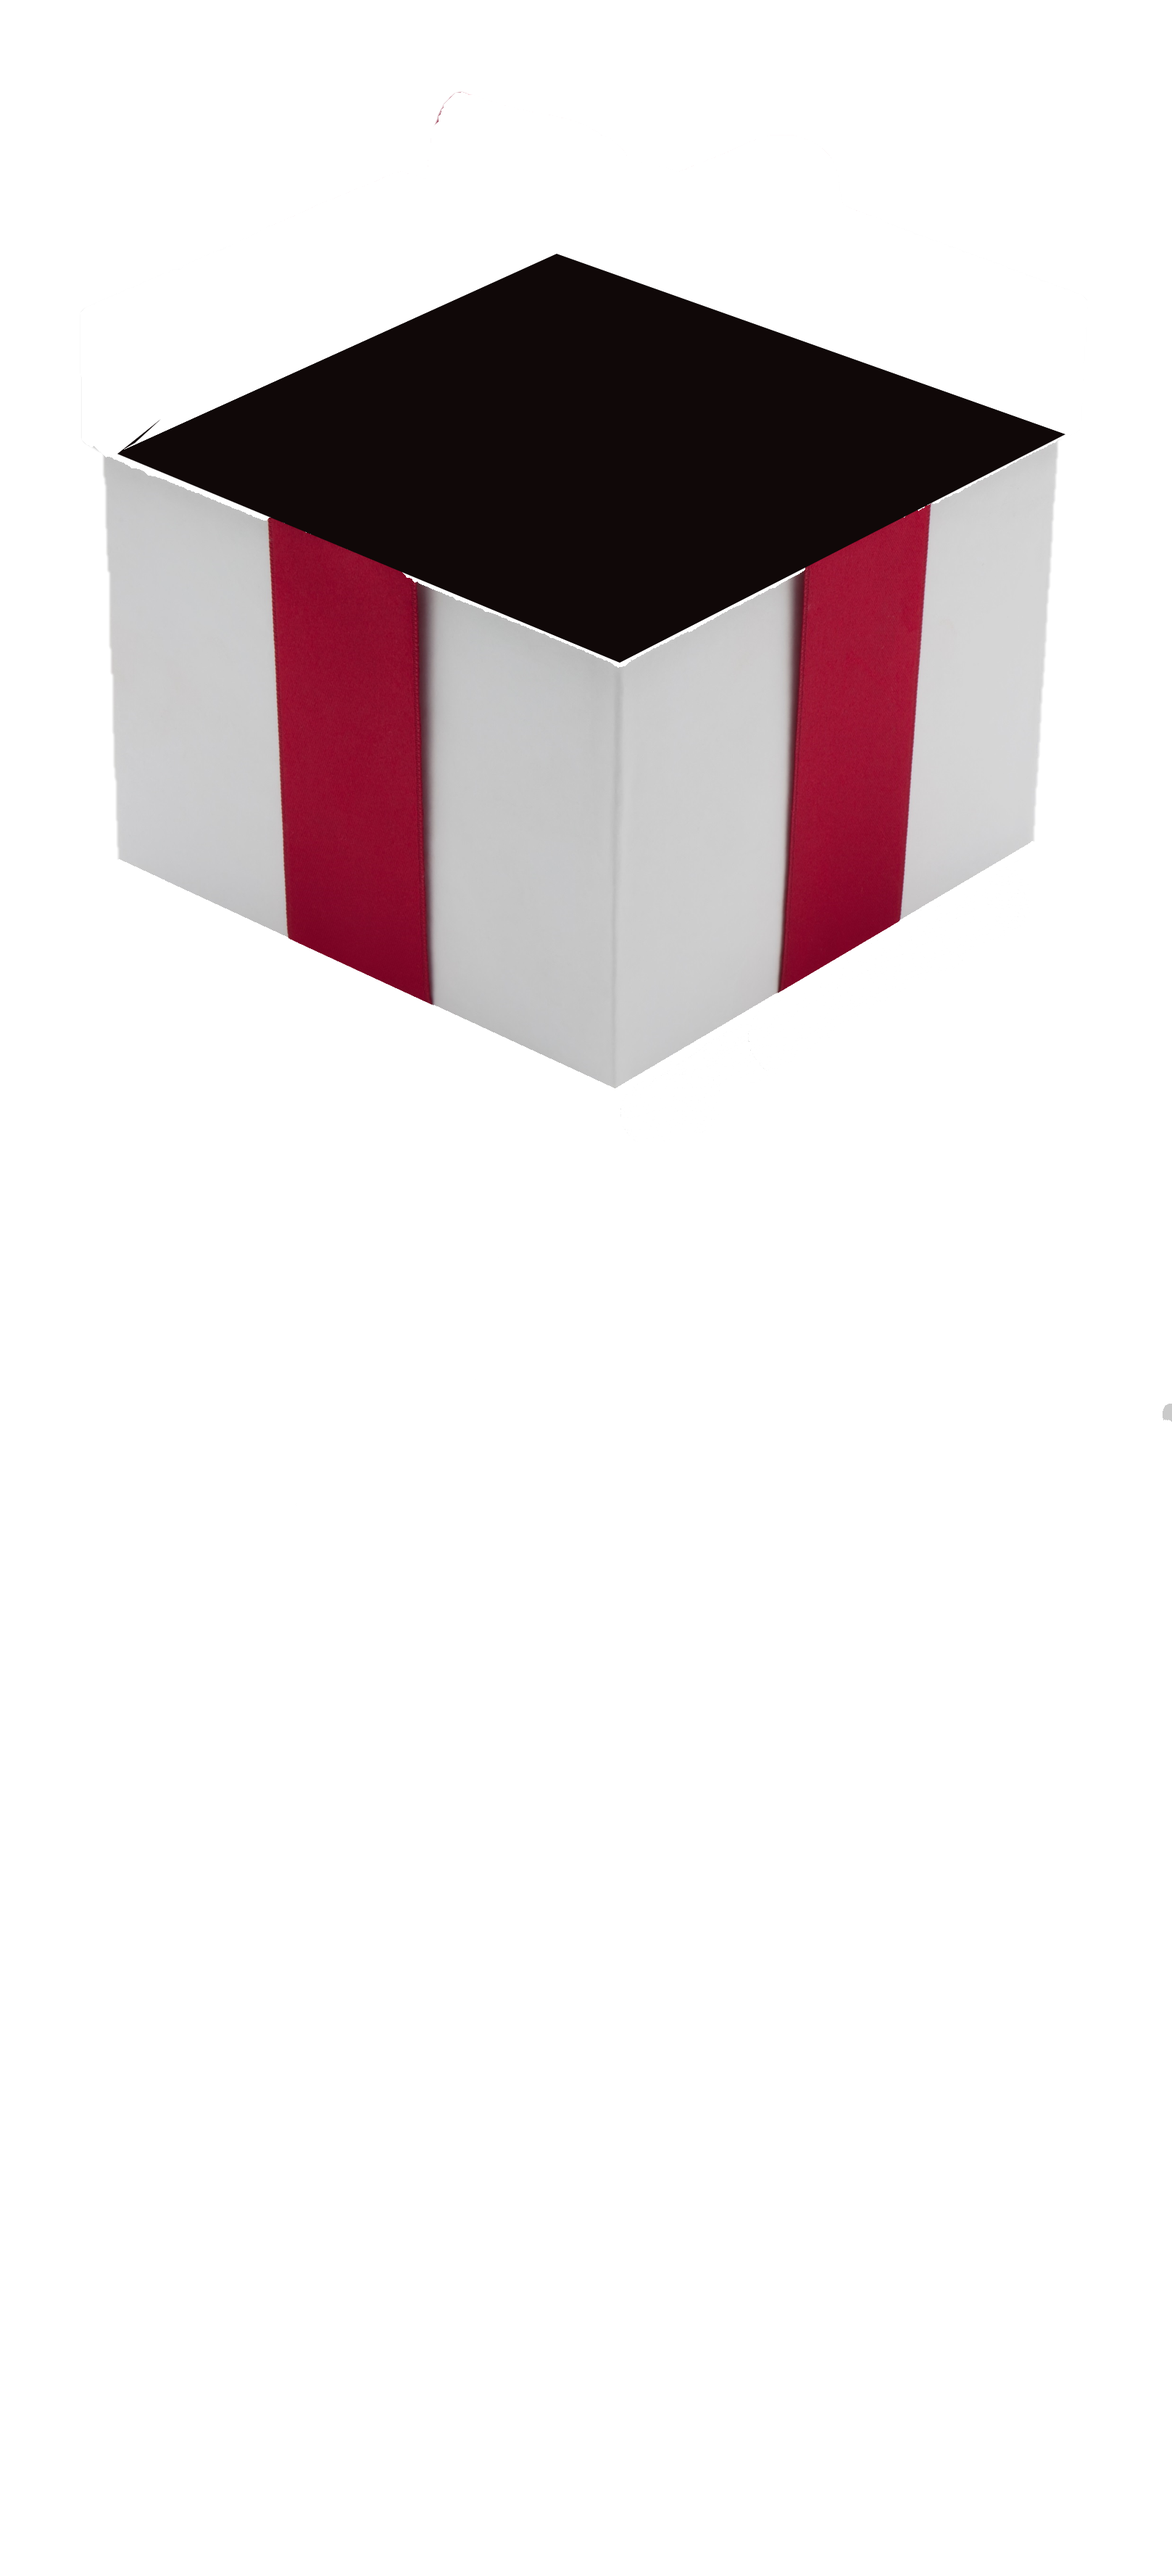
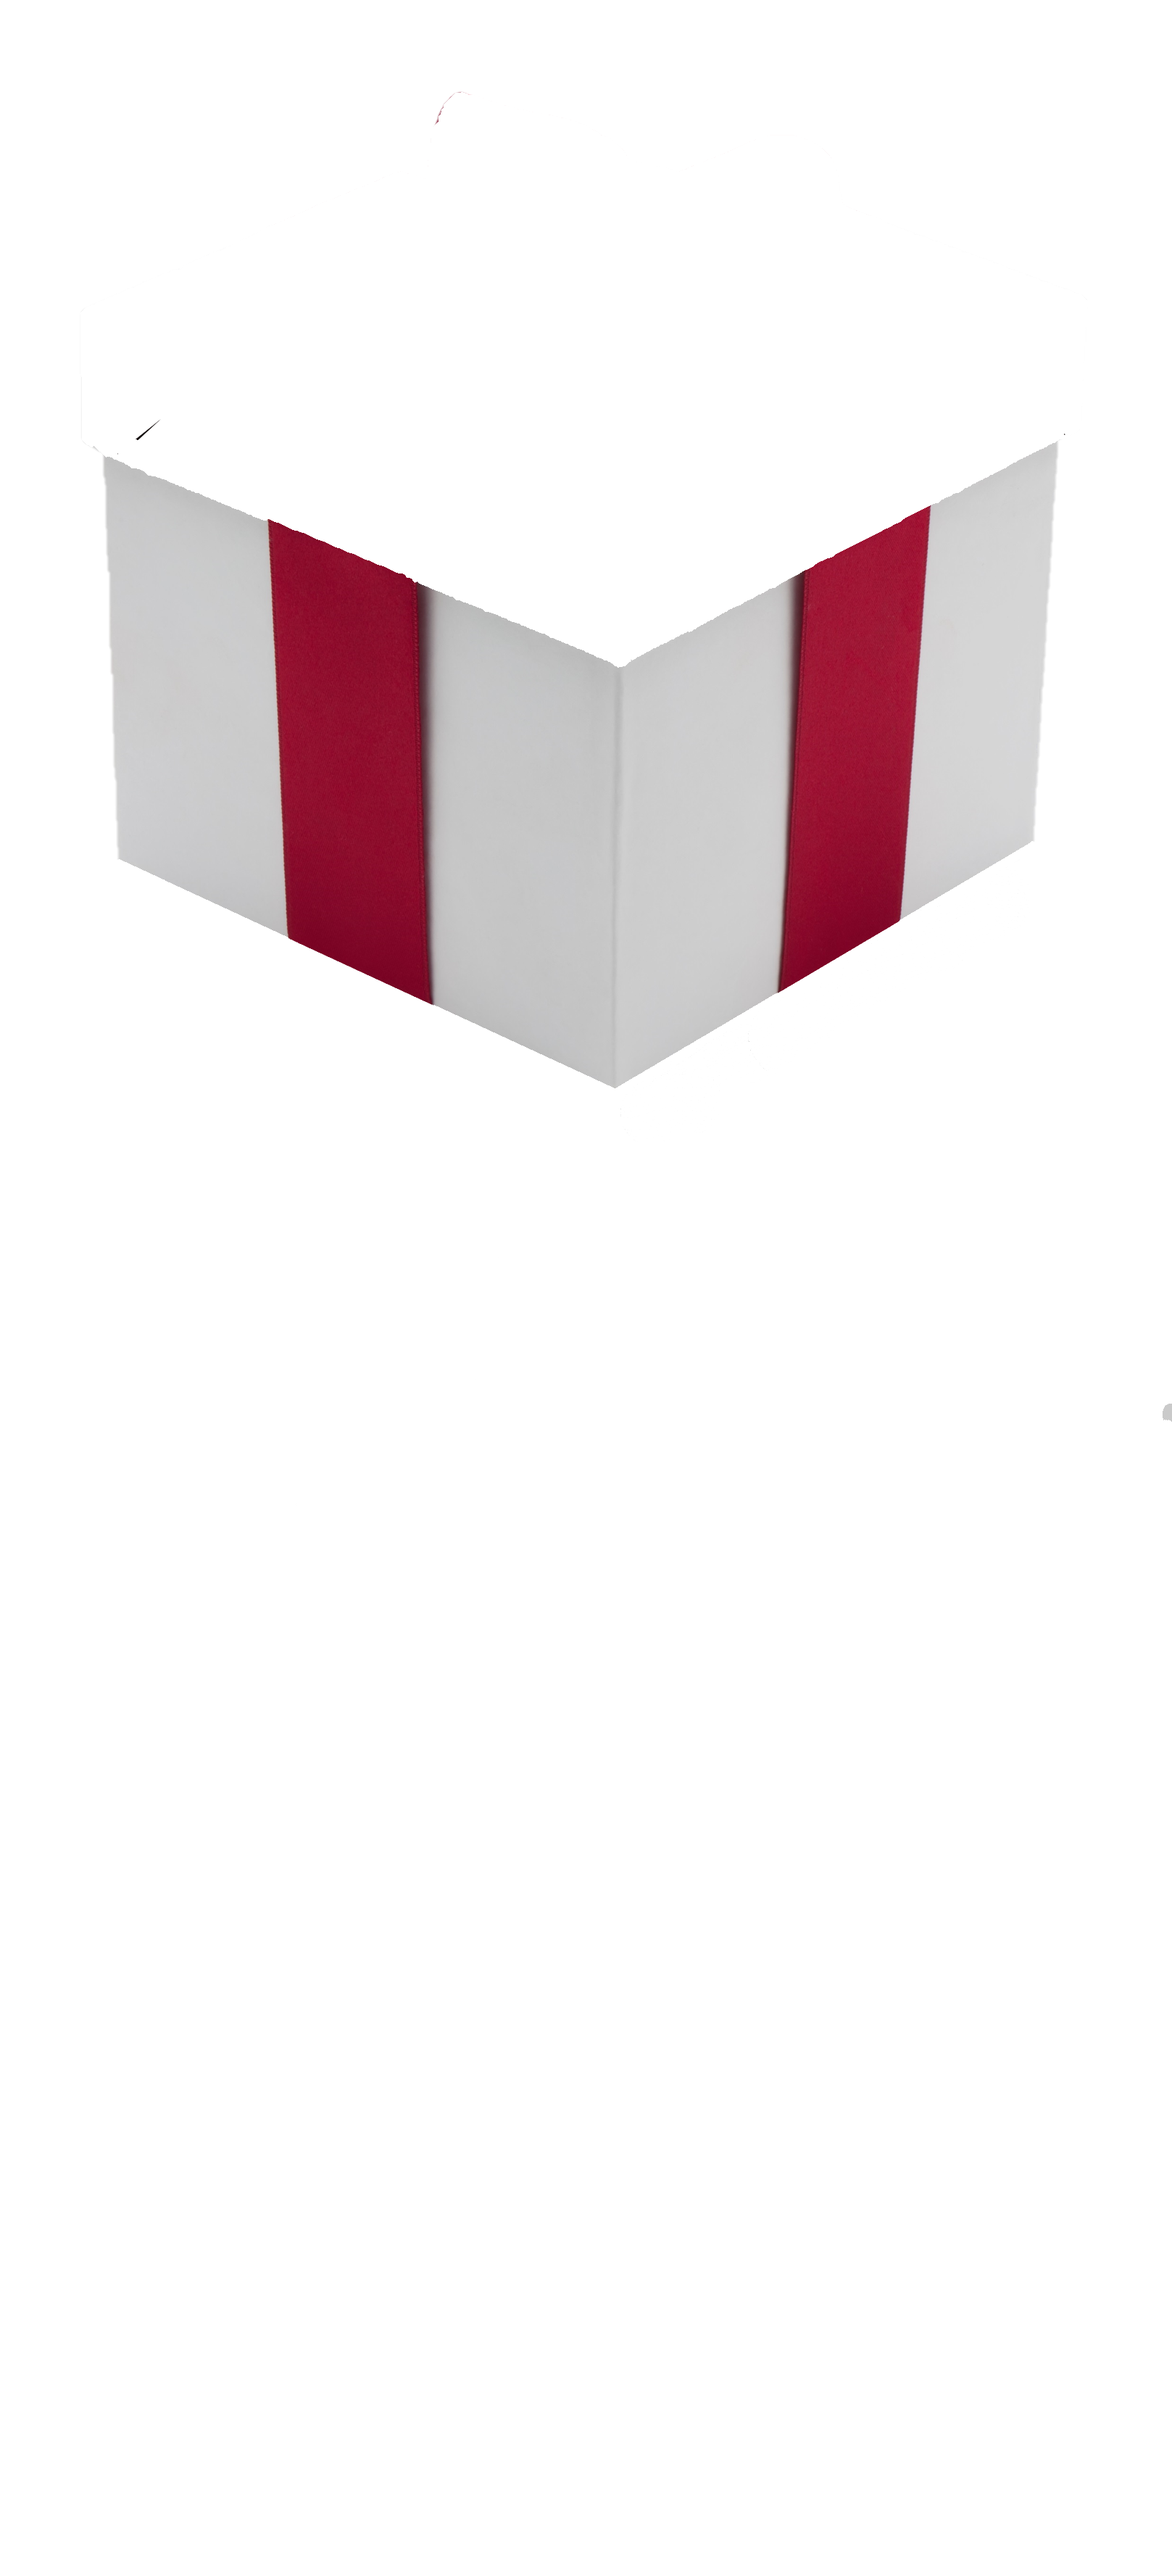
final

Changed region(s): [[0.0928, 0.0937, 0.8967, 0.2812]]

diff --git a/style.css b/style.css
@@ -1,7 +1,7 @@
 .present #nap {
     width: 16em;
     height: 16em;
-    margin-top: -15px;
+    /*margin-top: -15px;*/
     position: absolute;
     transition: transform 1s linear;
     transform-origin: left;
@@ -11,6 +11,13 @@
 .present #hop {
     width: 16em;
     /*height: 16em;*/
+    position: absolute;
+}
+
+.present #den-thui{
+    width: 16em;
+    height: 16em;
+    z-index: -2;
     position: absolute;
 }
 
@@ -57,12 +64,20 @@
     margin-top: 30%;
     margin-left: 2rem;
     position: relative;
-    top: 42px;
+    top: 100px;
     z-index: -2;
     transition: all 1200ms linear;
 }
 
 .move {
-    transform: translateY(-90%);
-    z-index: 2 !important;
+    transform: translateY(-50%);
+    /*z-index: 2 !important;*/
+}
+
+.tam-che{
+    position: fixed;
+    background-color: #fff;
+    width: 100vw;
+    height: 30vh;
+    bottom: 0;
 }

diff --git a/index.html b/index.html
@@ -12,9 +12,11 @@
 
 <body>
     <div class="container">
+        <div class="tam-che"></div>
         <div class="present">
-            <img id="hop" src="./resource/hop-edit.png">
+            <img id="hop" src="./resource/hop.png">
             <img id="nap" src="./resource/nap.png">
+            <img id="den-thui" src="./resource/denthui.png">
         </div>
         <div class="tran-duc-bo">
             <img style="height: 20em;" src="./resource/tranducbo.png">
